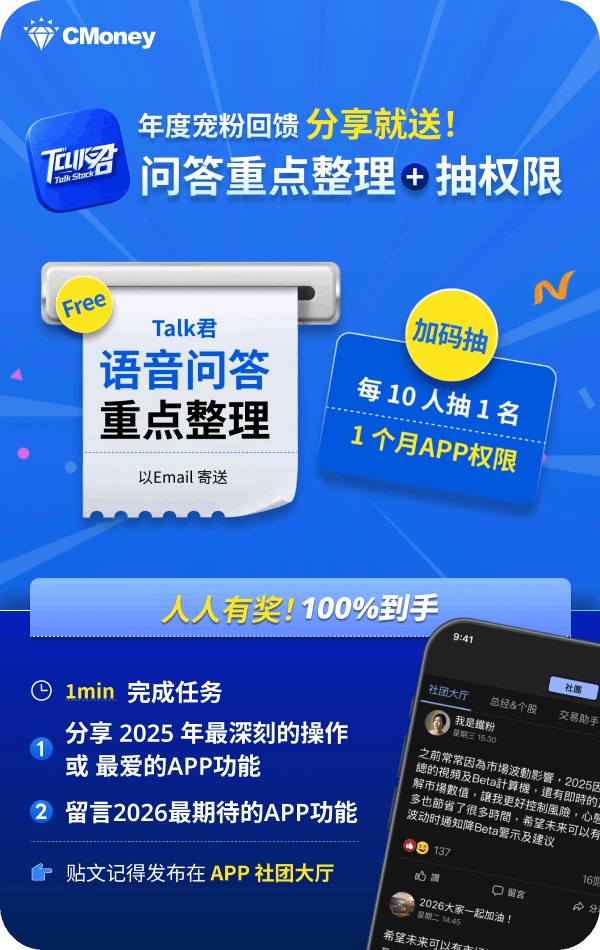
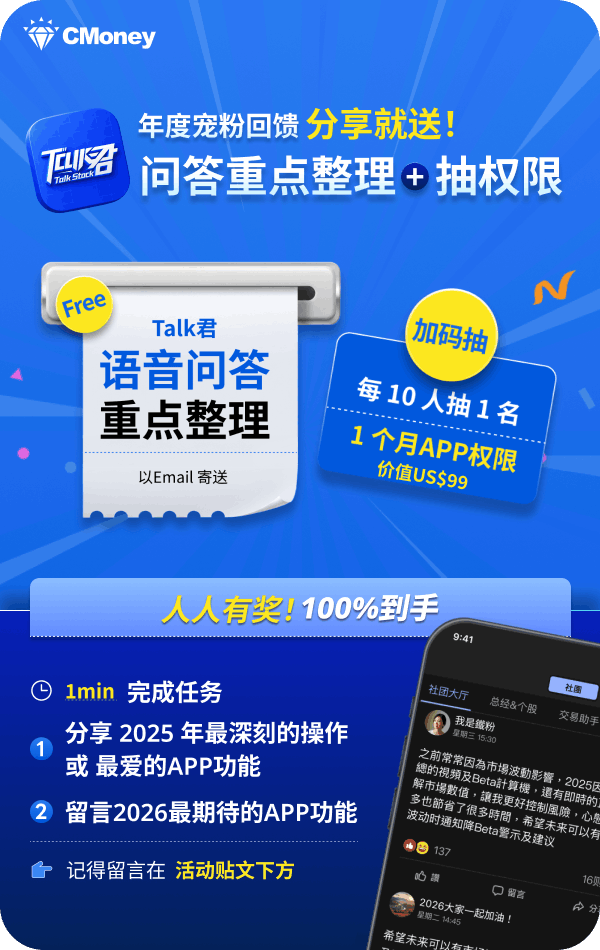
fix wording

diff --git a/src/translations.js b/src/translations.js
@@ -119,7 +119,7 @@ export const translations = {
             task2: "2. 2026 最期待的功能 😍",
             hint: "💡 許願小靈感：目標 Beta 區間自動提醒、持倉風險體檢、AI個股分析...任君許願!",
             preview: "點擊預覽範例",
-            shareTag: "分享即領",
+            shareTag: "留言即領",
             ticketTitle: "語音直播",
             ticketSubtitle: "2月入場券",
             ticketSession: "2026/2月指定場次",
@@ -138,13 +138,13 @@ export const translations = {
             task2: "2. 留言：2026 你最期待的 APP 功能是什麼？",
             hint: "💡 許願小靈感：目標 Beta 區間自動提醒、持倉風險體檢、AI個股分析...任君許願!",
             preview: "點擊預覽範例",
-            shareTag: "分享禮",
+            shareTag: "留言禮",
             // Multiple rewards support
             rewards: [
-                { tag: "分享禮", title: "Talk君語音問答重點整理", subtitle: "Email 寄送", icon: "Mic" },
+                { tag: "留言禮", title: "Talk君語音問答重點整理", subtitle: "Email 寄送", icon: "Mic" },
                 { tag: "加碼抽", title: "1 個月 APP 權限 (價值 US$99)", subtitle: "每 10 人就抽出 1 名", icon: "Crown" }
             ],
-            cta: "1分鐘分享領好禮",
+            cta: "1分鐘留言領好禮",
             shareBtn: "分享給親朋好友一起領",
             ends: "截止日： 1/27 23:59（美東）止",
             copyright: "主辦單位保有最終的活動詮釋權",
@@ -297,7 +297,7 @@ export const translations = {
                 { tag: "分享礼", title: "Talk君语音问答重点整理", subtitle: "Email 寄送", icon: "Mic" },
                 { tag: "加码抽", title: "1 个月 APP 权限 (价值 US$99)", subtitle: "每 10 人就抽出 1 名", icon: "Crown" }
             ],
-            cta: "1分钟分享领好礼",
+            cta: "1分钟留言领好礼",
             shareBtn: "分享给亲朋好友一起领",
             ends: "截止日： 1/27 23:59（美东）止",
             copyright: "主办单位保有最终的活动诠释权",
